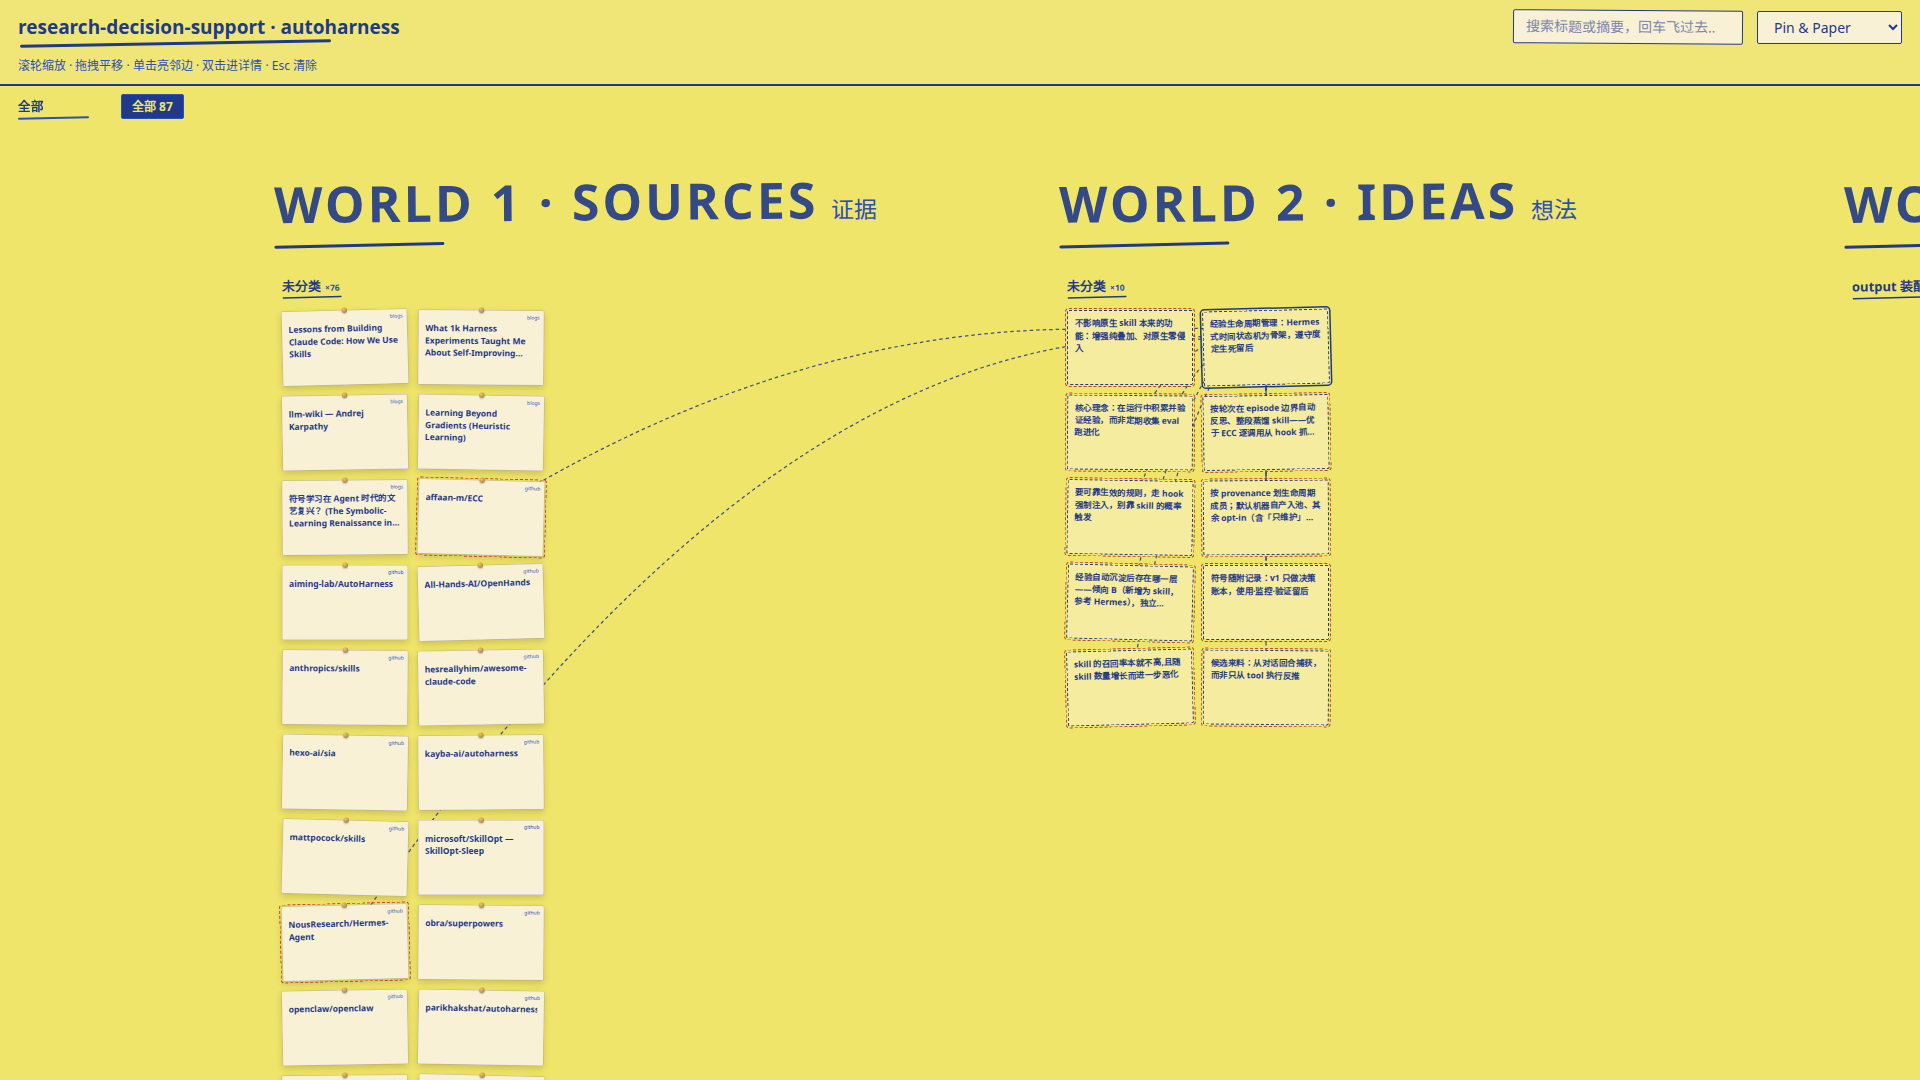
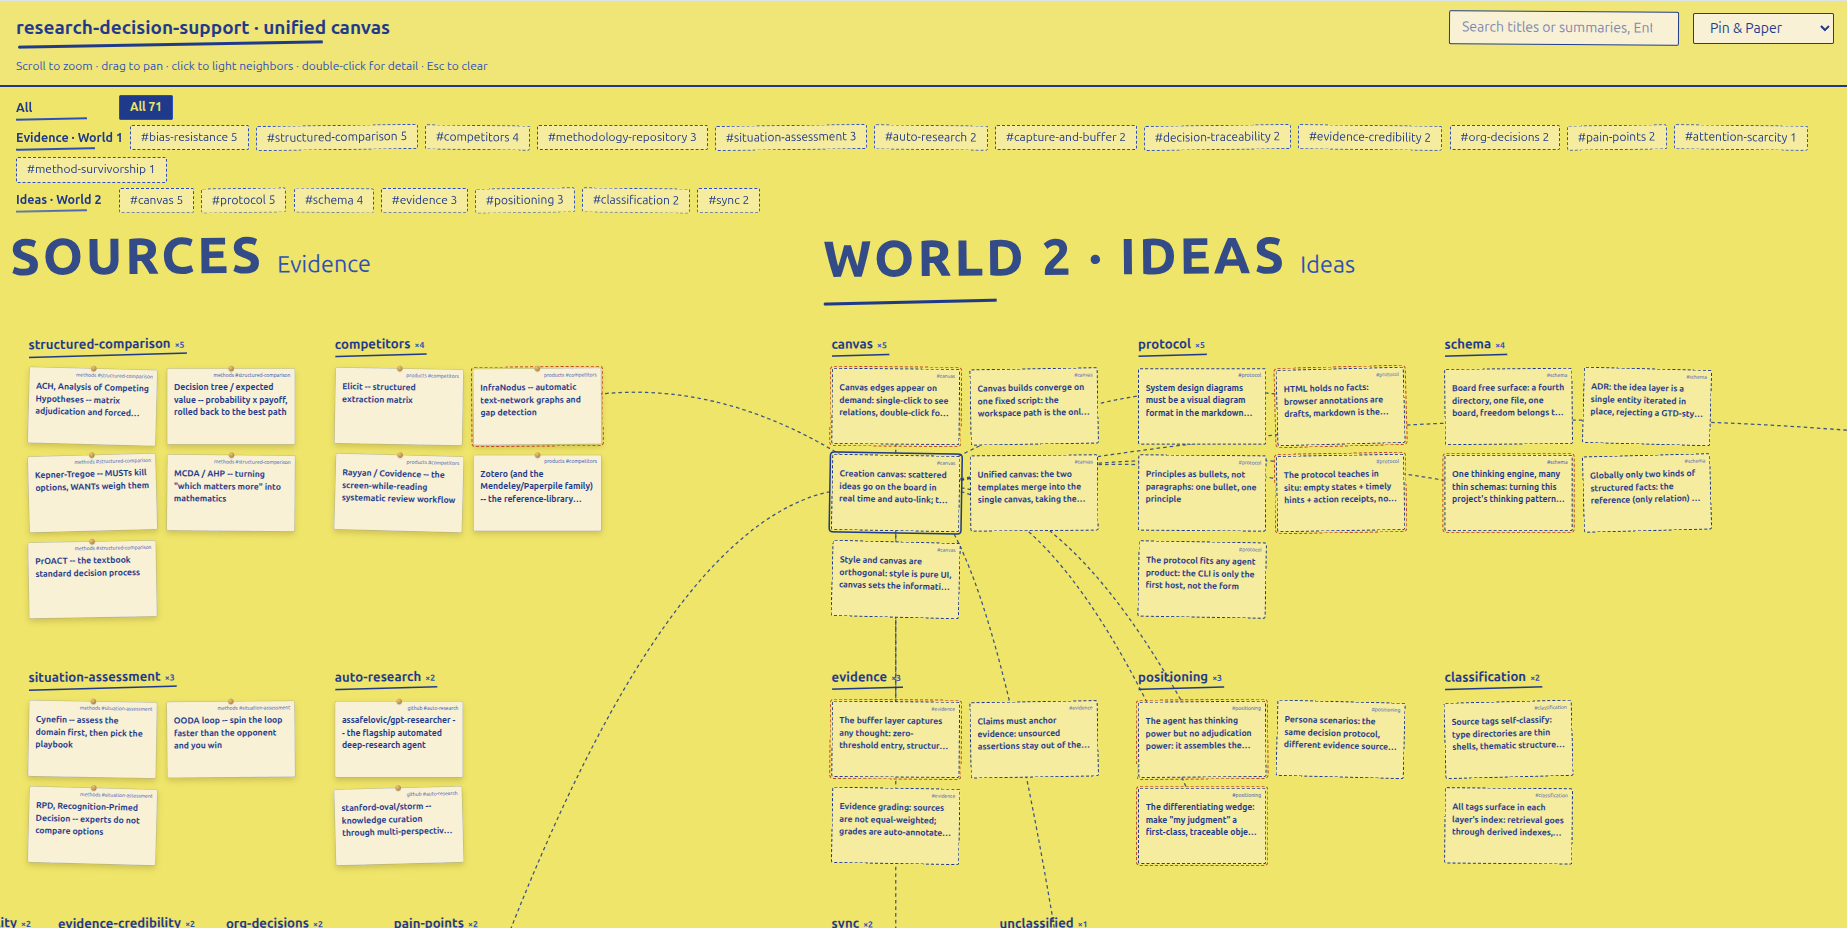
readme gallery: hand-shot board + close-up pair per style, drop capture script

diff --git a/README.md b/README.md
@@ -69,40 +69,56 @@ open /tmp/canvas/canvas.html
 
 ## Canvas Styles
 
-Five skins ship with the canvas. Switch live from the toolbar — the choice sticks in
-your browser. Screenshots below are the bundled example workspace, unretouched.
+Five skins ship with the canvas; switch live from the toolbar, Pin & Paper is the
+default. Screenshots below are this repo's own workspace, unretouched — the board
+view and a close-up for each style.
 
 ### Pin & Paper (default)
 
-![Pin & Paper](docs/assets/canvas-styles/pin-and-paper.png)
+<p>
+  <img src="docs/assets/canvas-styles/pin-and-paper-1.png" width="49%" alt="Pin & Paper — board">
+  <img src="docs/assets/canvas-styles/pin-and-paper-2.png" width="49%" alt="Pin & Paper — close-up">
+</p>
 
 > A handmade pinboard: yellow paper ground, ink-blue hand script, pinned notes,
 > taped slips, and dashed hand-drawn threads between them.
 
 ### Notebook Tabs
 
-![Notebook Tabs](docs/assets/canvas-styles/notebook-tabs.png)
+<p>
+  <img src="docs/assets/canvas-styles/notebook-tabs-1.png" width="49%" alt="Notebook Tabs — board">
+  <img src="docs/assets/canvas-styles/notebook-tabs-2.png" width="49%" alt="Notebook Tabs — close-up">
+</p>
 
 > Warm ivory stationery: serif italic headings, index cards with colored tab
 > tongues, sticky-note ideas, stitched dashed connections.
 
 ### Swiss Modern
 
-![Swiss Modern](docs/assets/canvas-styles/swiss-modern.png)
+<p>
+  <img src="docs/assets/canvas-styles/swiss-modern-1.png" width="49%" alt="Swiss Modern — board">
+  <img src="docs/assets/canvas-styles/swiss-modern-2.png" width="49%" alt="Swiss Modern — close-up">
+</p>
 
 > White, ink, and one red accent: hairline grid, giant grotesk world titles with
 > red ordinals, ruler-straight edges.
 
 ### BlockFrame
 
-![BlockFrame](docs/assets/canvas-styles/block-frame.png)
+<p>
+  <img src="docs/assets/canvas-styles/block-frame-1.png" width="49%" alt="BlockFrame — board">
+  <img src="docs/assets/canvas-styles/block-frame-2.png" width="49%" alt="BlockFrame — close-up">
+</p>
 
 > Neo-brutalist pastel decks: thick borders, hard offset shadows, cyan / pink /
 > yellow card blocks that tilt just enough to feel alive.
 
 ### 8-Bit Orbit
 
-![8-Bit Orbit](docs/assets/canvas-styles/8-bit-orbit.png)
+<p>
+  <img src="docs/assets/canvas-styles/8-bit-orbit-1.png" width="49%" alt="8-Bit Orbit — board">
+  <img src="docs/assets/canvas-styles/8-bit-orbit-2.png" width="49%" alt="8-Bit Orbit — close-up">
+</p>
 
 > A CRT arcade in deep navy — scanlines, neon cyan / yellow / magenta frames, and
 > orthogonal circuit-trace edges. Dark in both color schemes; a CRT has no daylight